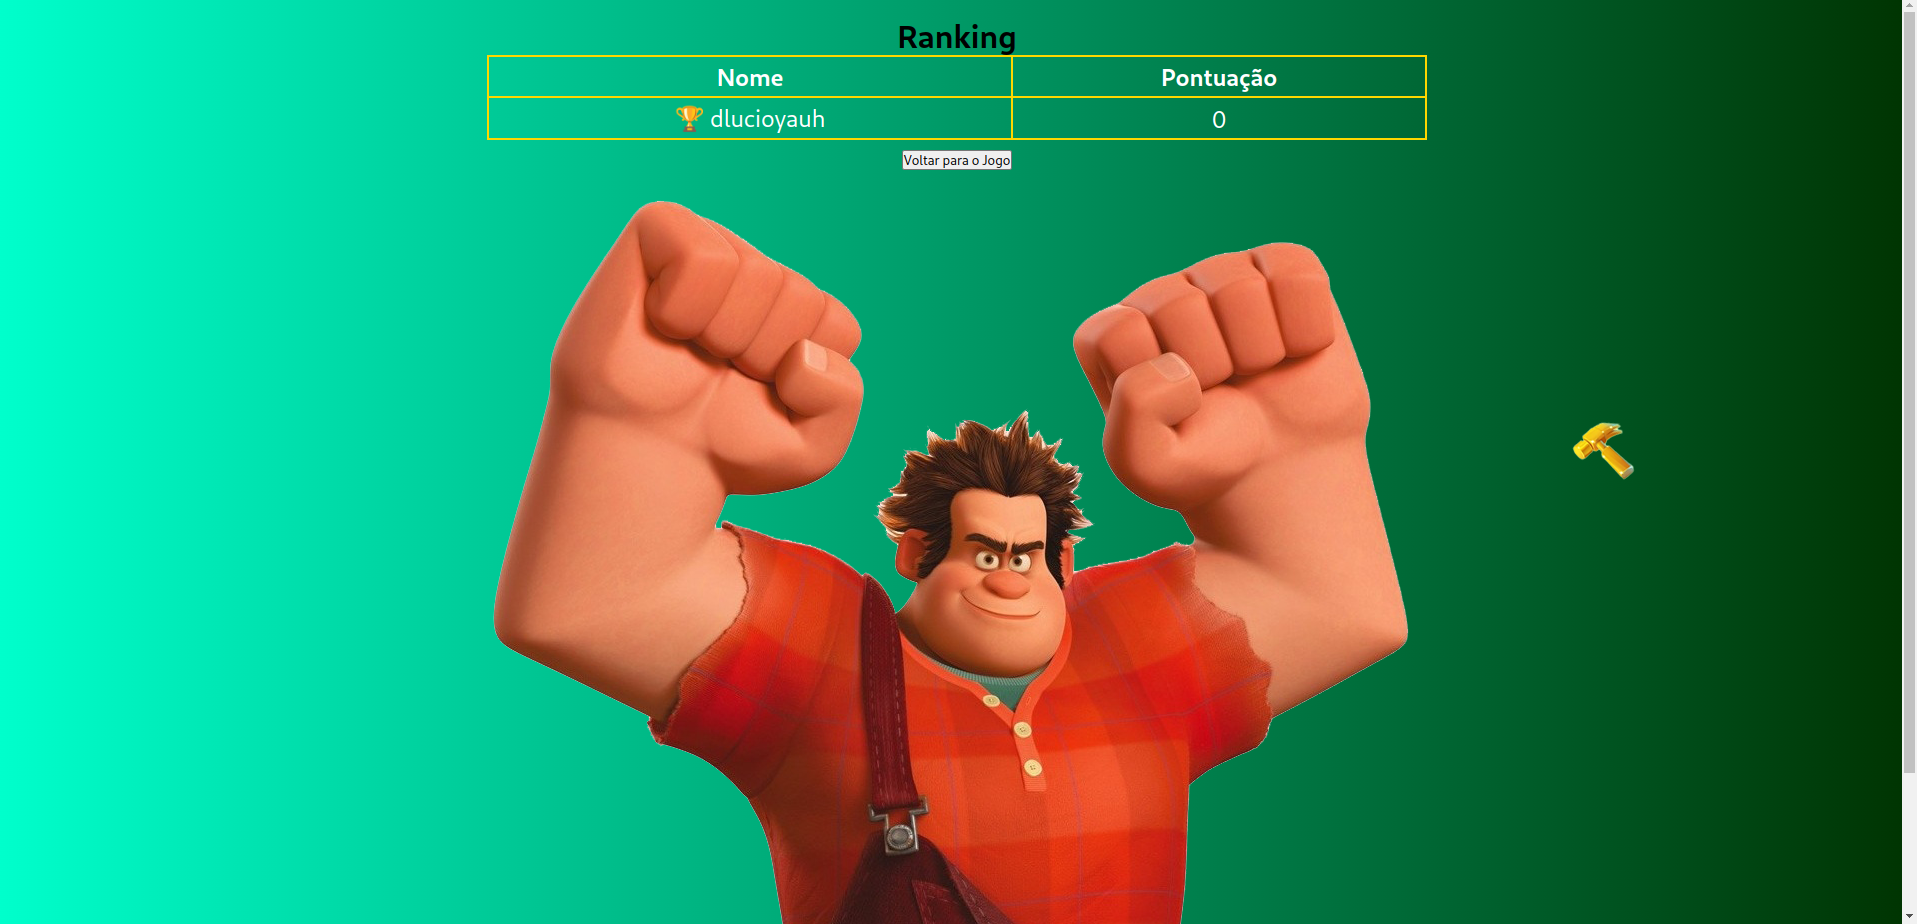
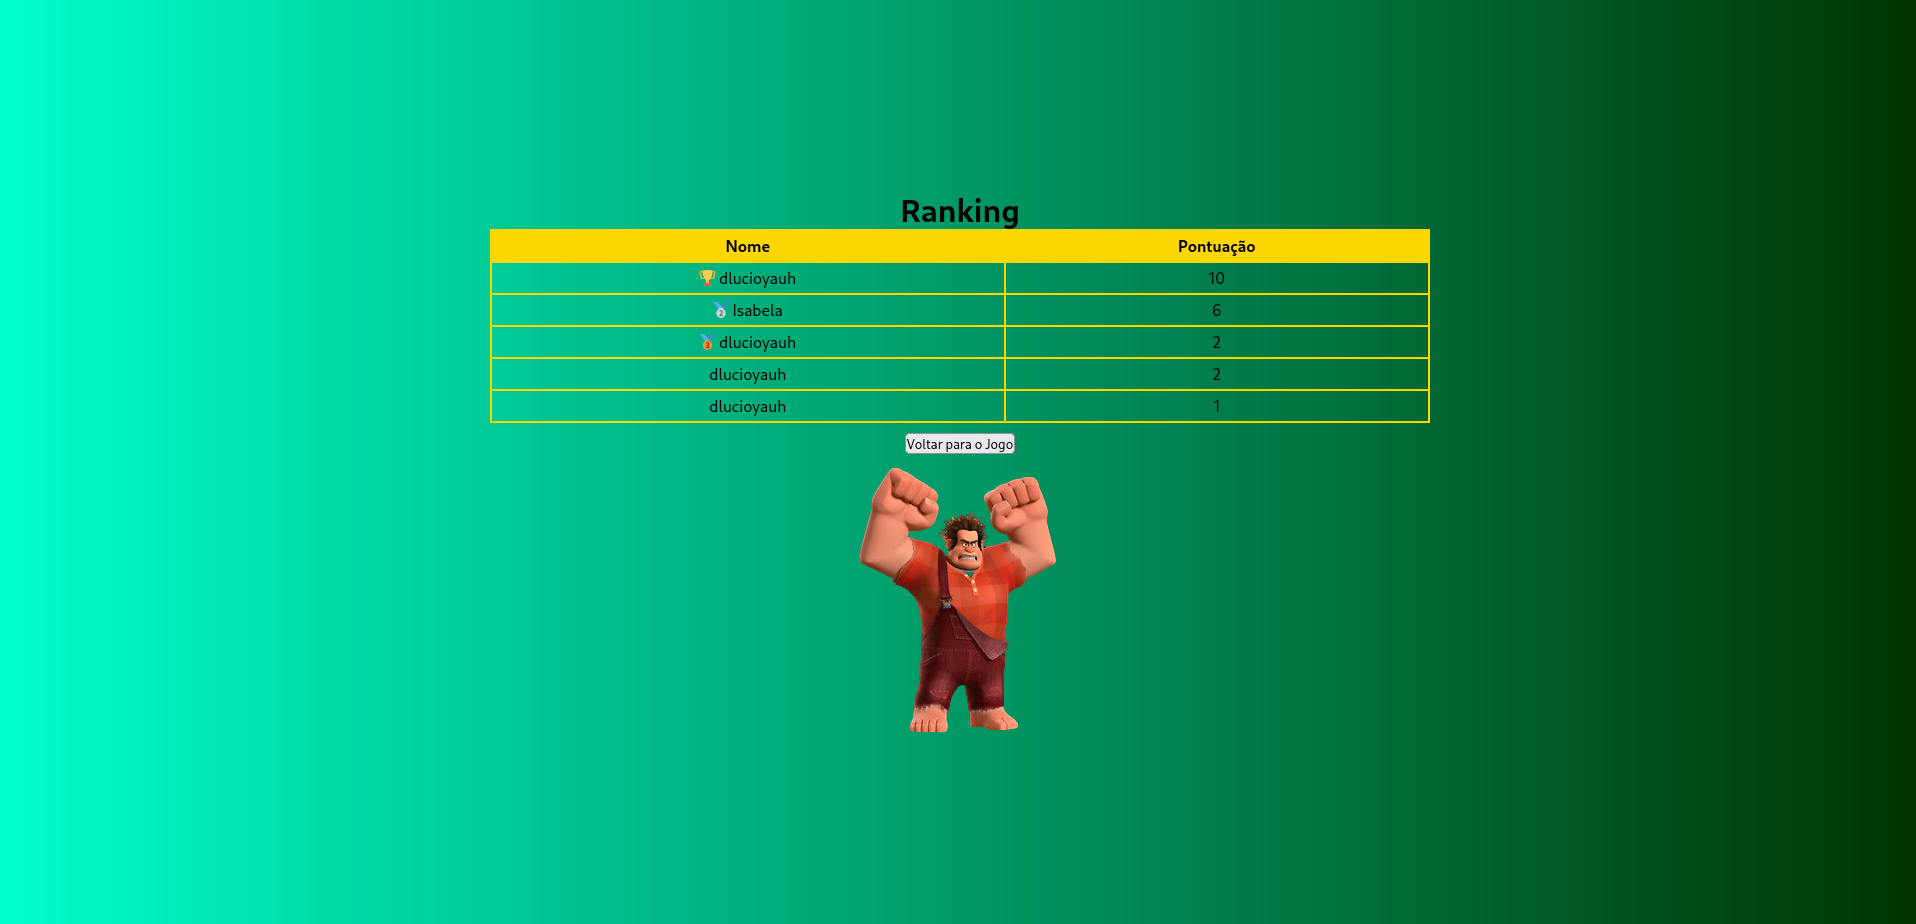
mexendo no codigo do ranking e no stylo

diff --git a/src/assets/css/styles.css b/src/assets/css/styles.css
@@ -180,7 +180,7 @@ body {
 
 #cadastro-screen img {
     position: relative; /* Muda para 'relative' para se comportar em relação ao fluxo do documento */
-    width: 40%; /* Reduz a largura da imagem para 80% da largura do container */
+    width: 25%; 
     height: auto; /* Ajusta a altura automaticamente */
     margin-top: 20px; /* Adiciona um espaço acima da imagem, se necessário */
     display: block; /* Garante que a imagem seja tratada como um bloco, evitando espaço abaixo */
